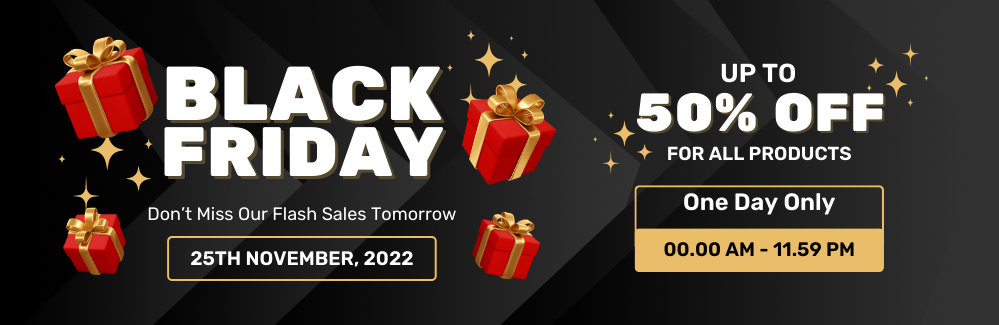
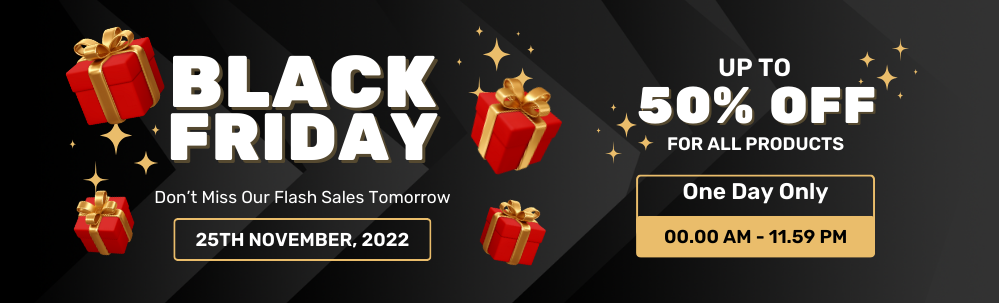
updated

diff --git a/frontend-main/src/views/home/GridComp.vue b/frontend-main/src/views/home/GridComp.vue
@@ -23,12 +23,11 @@
 </template>
 
 <script setup>
-import image1 from '@/assets/icons/0.png'
-import image2 from '@/assets/icons/1.png'
-import image3 from '@/assets/icons/2.png'
-import image4 from '@/assets/icons/3.png'
-import image5 from '@/assets/icons/5.png'
-import image6 from '@/assets/icons/6.png'
+import image1 from '@/assets/icons/a.png'
+import image2 from '@/assets/icons/b.png'
+import image3 from '@/assets/icons/c.png'
+import image4 from '@/assets/icons/d.png'
+import image5 from '@/assets/icons/e.png'
 import { ref, inject } from 'vue';
 
 const { formatPriceToUSD } = inject('utils');

diff --git a/frontend-main/src/views/home/BannerComp.vue b/frontend-main/src/views/home/BannerComp.vue
@@ -52,7 +52,7 @@ import RightPanel from '@/views/home/RightPanel.vue';
 }
 
 .banner-column:nth-child(2) {
-    grid-template-rows: 0.75fr 1fr;
+    grid-template-rows: 1fr 1.5fr;
 }
 
 .banner-column:last-child {
